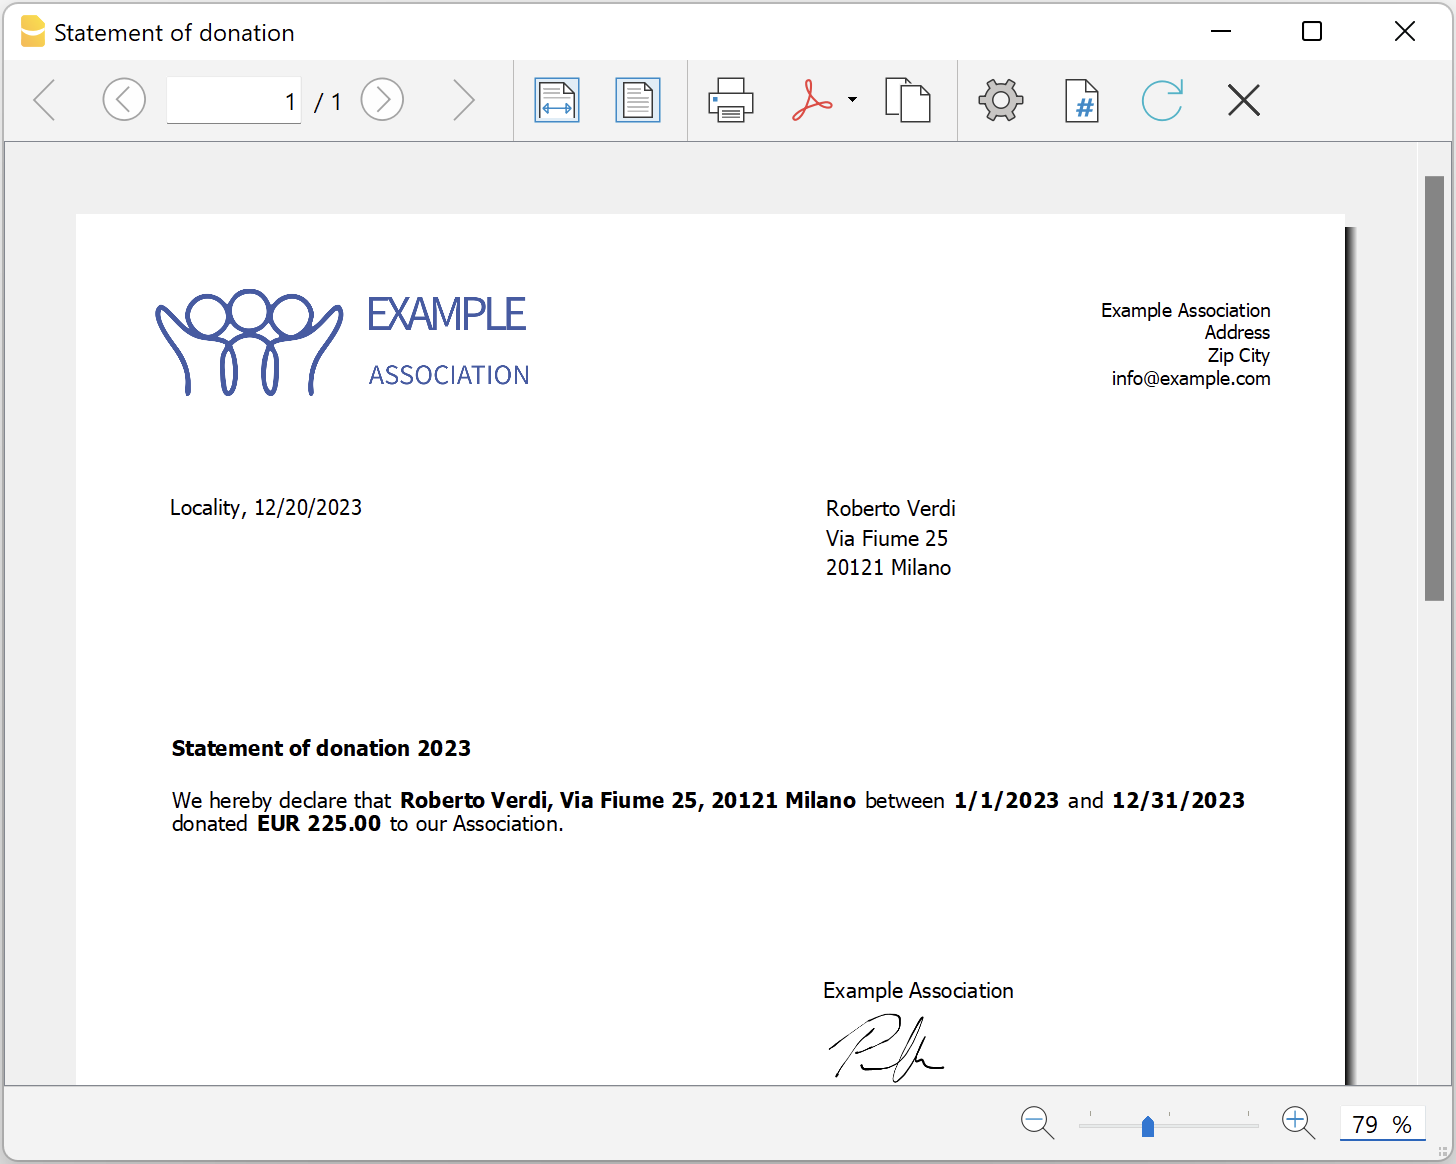
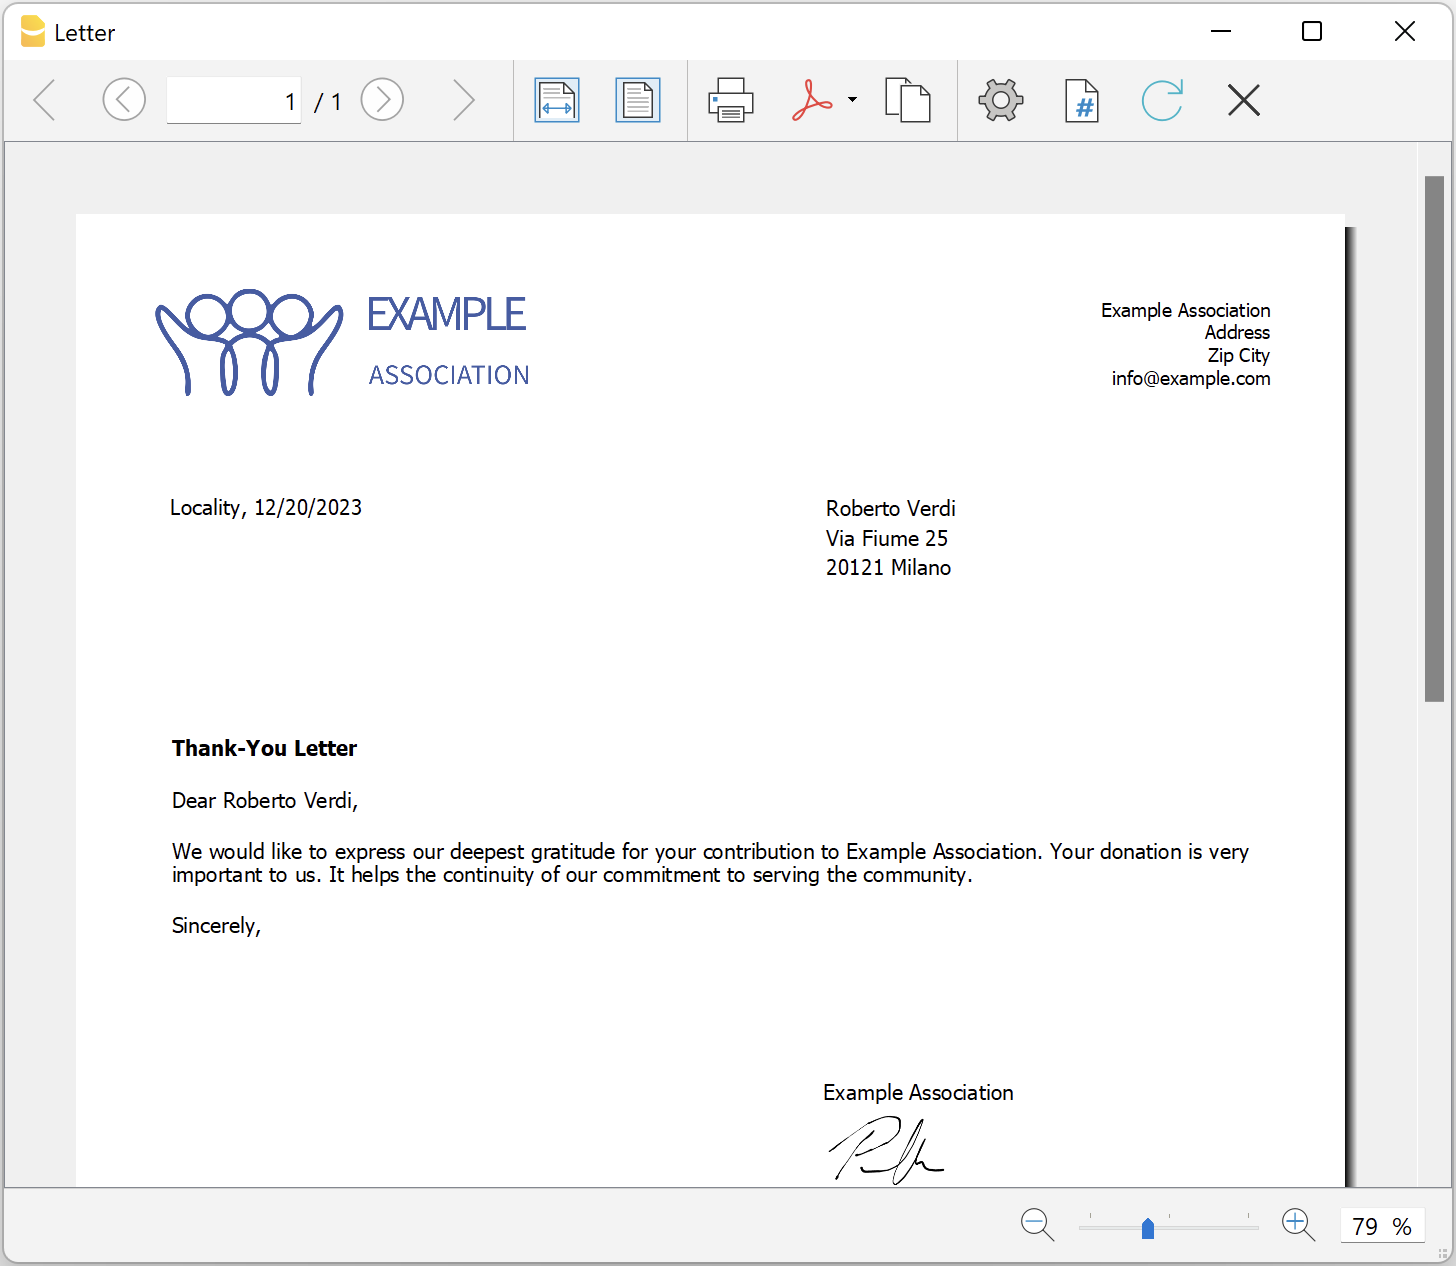
Update donationstatement and letter extensions

diff --git a/report/association/letter/ch.banana.uni.app.letter.js b/report/association/letter/ch.banana.uni.app.letter.js
@@ -458,7 +458,7 @@ function exec(inData, options) {
     }
 
     //Checks Banana version and license
-    var isCurrentBananaVersionSupported = bananaRequiredVersion("10.0.12.22054");
+    var isCurrentBananaVersionSupported = bananaRequiredVersion("10.1.0.23068");
     if (!isCurrentBananaVersionSupported) {
         return "@Cancel";
     }
@@ -793,6 +793,10 @@ function convertFields(banDoc, text, address, account) {
         var currency = banDoc.info("AccountingDataBase", "BasicCurrency");
         text = text.replace(/<Currency>/g,currency);
     }
+    if (text.indexOf("<Amount>") > -1) {
+        var amount = Banana.Converter.toLocaleNumberFormat(totalOfDonations);
+        text = text.replace(/<Amount>/g,amount);
+    }
     if (text.indexOf("<NamePrefix>") > -1) {
         text = text.replace(/<NamePrefix>/g,address.nameprefix);
     }
@@ -835,6 +839,10 @@ function convertFieldsMarkdown(banDoc, text, address, account) {
     if (text.indexOf("{{Currency}}") > -1) {
         var currency = banDoc.info("AccountingDataBase", "BasicCurrency");
         text = text.replace(/{{Currency}}/g,currency);
+    }
+    if (text.indexOf("{{Amount}}") > -1) {
+        var amount = Banana.Converter.toLocaleNumberFormat(totalOfDonations);
+        text = text.replace(/{{Amount}}/g,amount);
     }
     if (text.indexOf("{{NamePrefix}}") > -1) {
         text = text.replace(/{{NamePrefix}}/g,address.nameprefix);

diff --git a/report/association/donationstatementplus/ch.banana.uni.app.donationstatementplus.js b/report/association/donationstatementplus/ch.banana.uni.app.donationstatementplus.js
@@ -519,7 +519,7 @@ function exec(inData, options) {
     }
 
     //Checks Banana version and license
-    var isCurrentBananaVersionSupported = bananaRequiredVersion("10.0.12.22054");
+    var isCurrentBananaVersionSupported = bananaRequiredVersion("10.1.0.23068");
     if (!isCurrentBananaVersionSupported) {
         return "@Cancel";
     }
